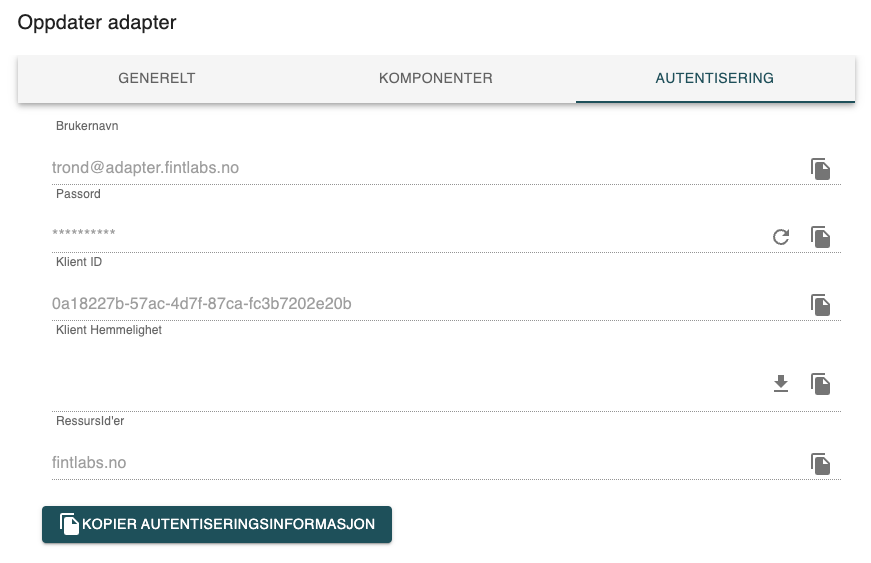
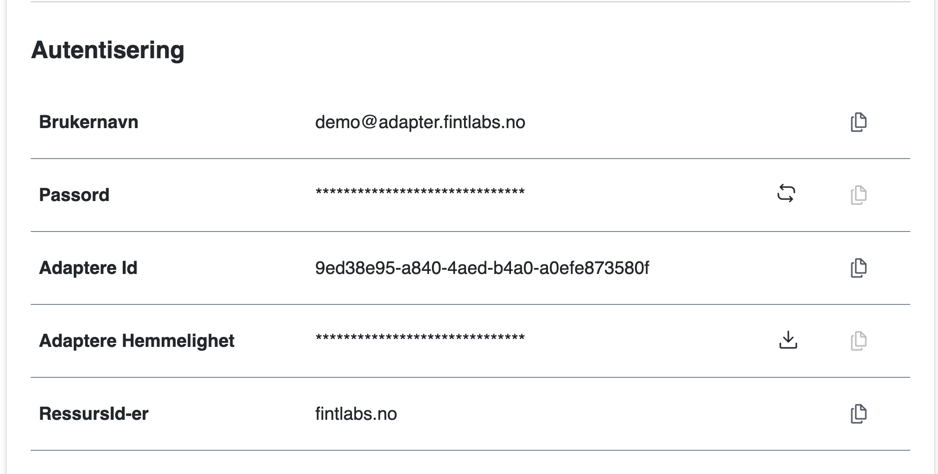
update adapter tutorial with new images

diff --git a/portal/adapter.md b/portal/adapter.md
@@ -21,15 +21,15 @@ Dersom du hovedsakelig skal hente informasjon fra FINT (som en konsument), bør 
 
 5. Klikk på **Legg til**.
 
-6. Finn adapteret som nettopp ble opprettet, og klikk på endre-symbolet.     
+6. Finn adapteret som nettopp ble opprettet, og klikk på det     
    ![Grå blyant](../_media/kundeportal-adapter-4.png)
 
-7. Klikk på **Komponenter** og huk av de komponentene som adapteret skal ha tilgang til.
+7. Bla ned til **Komponenter** og huk av de komponentene som adapteret skal ha tilgang til.
    ![Huk av komponenter](../_media/kundeportal-adapter-5.png)
 
-   ?>Enkelte adaptere må kunne lese fra FINT, i tillegg til å levere data. I så fall må det opprettes en egen klient for adapteret. Rettigheten som settes gjelder kun det som adapteret skal kunne levere data for. 
+   > Enkelte adaptere må kunne lese fra FINT, i tillegg til å levere data. I så fall må det opprettes en egen klient for adapteret. Rettigheten som settes gjelder kun det som adapteret skal kunne levere data for. 
  
-8. Klikk så på **Autentisering**.
+8. Bla opp til **Autentisering**.
    ![Autentisering](../_media/kundeportal-adapter-6.png)
 
 9. Klikk på oppdater-ikonet til høyre for **Passord** for å generere et nytt passord.  
@@ -41,14 +41,17 @@ Dersom du hovedsakelig skal hente informasjon fra FINT (som en konsument), bør 
 11. Klikk på **Kopier autentiseringsinformasjon**. Påloggingsinformasjonen kan nå limes inn der du vil benytte den. Den kommer i dette formatet:
 
     ```json
-    {
-      “username”: “<klientnavn>@adapter.<fylke>.no”,
-      “password”: “<fjernet>”,
-      “clientId”: “<fjernet>”,
-      “openIdSecret”: “<fjernet>“,
-      “assetIds”: [“<fylke>.no”]
-    }
+      {
+      "username": "username",
+      "password": "password",
+      "clientId": "clientId",
+      "clientSecret": "clientSecret",
+      "assetIds": "fintlabs.no",
+      "scope": "fint-client",
+      "idpUri": "https://idp.felleskomponent.no/nidp/oauth/nam/token"
+      }
     ```
+> Hvis du skal integrere med FINT V2 så må scope settes til "fint-adapter"
 
 **Tips:**
 - Hvis passordet er `**********`, har du glemt å generere passord. Dette vil ikke fungere (se punkt 8).

diff --git a/portal/klient.md b/portal/klient.md
@@ -28,7 +28,7 @@ Det er anbefalt å opprette en egen klient for hvert formål, dvs. ikke gjenbruk
 5. Klikk på **Oprett**.
 
 6. Finn klienten som nettopp ble opprettet, og klikk på den.     
-   ![Grå blyant](../_media/kundeportal-adapter-4.png)
+   ![Grå blyant](../_media/kundeportal-klient-4.png)
 
 7. Under **Tilgangsstyring for komponenter** kan du huke av de komponentene som klienten skal ha tilgang til.
    ![Huk av komponenter](../_media/kundeportal-adapter-5.png)
